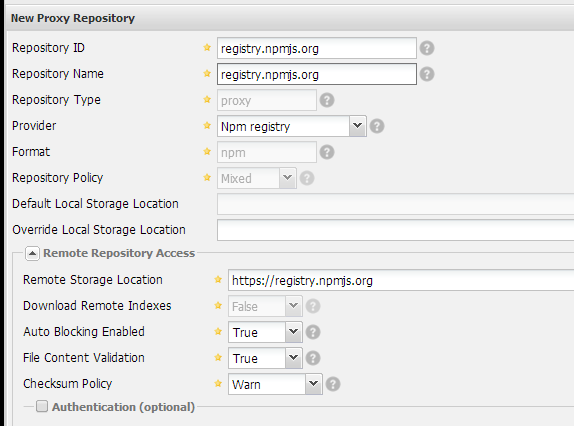
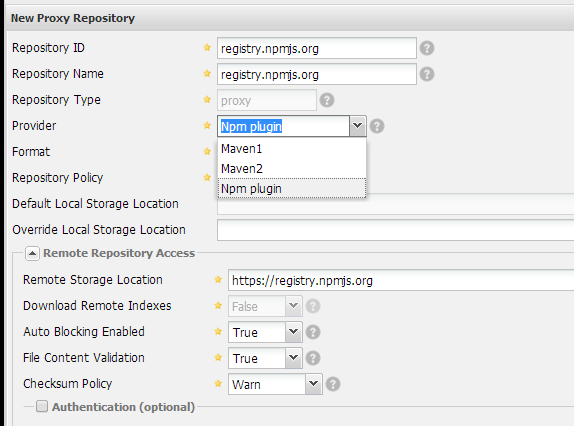
Added hosted repository (stub for now, there is no npm specific logic implemented yet)

Changed region(s): [[0.3554, 0.2746, 0.6516, 0.4883]]

diff --git a/src/main/java/com/bolyuba/nexus/plugin/npm/proxy/DefaultNpmProxyRepository.java b/src/main/java/com/bolyuba/nexus/plugin/npm/proxy/DefaultNpmProxyRepository.java
@@ -1,6 +1,7 @@
 package com.bolyuba.nexus.plugin.npm.proxy;
 
 import com.bolyuba.nexus.plugin.npm.NpmContentClass;
+import com.bolyuba.nexus.plugin.npm.NpmPlugin;
 import com.bolyuba.nexus.plugin.npm.proxy.content.NpmMimeRulesSource;
 import com.bolyuba.nexus.plugin.npm.proxy.storage.NpmLocalStorageWrapper;
 import com.bolyuba.nexus.plugin.npm.proxy.storage.NpmRemoteStorageWrapper;
@@ -10,15 +11,15 @@ import org.sonatype.nexus.configuration.Configurator;
 import org.sonatype.nexus.configuration.model.CRepository;
 import org.sonatype.nexus.configuration.model.CRepositoryExternalConfigurationHolderFactory;
 import org.sonatype.nexus.mime.MimeRulesSource;
-import org.sonatype.nexus.mime.MimeSupport;
-import org.sonatype.nexus.proxy.*;
-import org.sonatype.nexus.proxy.item.AbstractStorageItem;
-import org.sonatype.nexus.proxy.item.RepositoryItemUid;
+import org.sonatype.nexus.proxy.AccessDeniedException;
+import org.sonatype.nexus.proxy.IllegalOperationException;
+import org.sonatype.nexus.proxy.ItemNotFoundException;
+import org.sonatype.nexus.proxy.ResourceStoreRequest;
+import org.sonatype.nexus.proxy.StorageException;
 import org.sonatype.nexus.proxy.item.StorageItem;
 import org.sonatype.nexus.proxy.registry.ContentClass;
 import org.sonatype.nexus.proxy.repository.AbstractProxyRepository;
 import org.sonatype.nexus.proxy.repository.DefaultRepositoryKind;
-import org.sonatype.nexus.proxy.repository.Repository;
 import org.sonatype.nexus.proxy.repository.RepositoryKind;
 import org.sonatype.nexus.proxy.storage.local.LocalRepositoryStorage;
 import org.sonatype.nexus.proxy.storage.remote.RemoteRepositoryStorage;
@@ -26,20 +27,16 @@ import org.sonatype.nexus.proxy.storage.remote.RemoteRepositoryStorage;
 import javax.inject.Inject;
 import javax.inject.Named;
 
-import java.util.regex.Pattern;
-
 import static com.google.common.base.Preconditions.checkNotNull;
 
 /**
  * @author Georgy Bolyuba (georgy@bolyuba.com)
  */
-@Named(DefaultNpmProxyRepository.ROLE_HINT)
+@Named(NpmPlugin.ROLE_HINT)
 @Description("Npm registry proxy repo")
 public class DefaultNpmProxyRepository
         extends AbstractProxyRepository
         implements NpmProxyRepository {
-
-    public static final String ROLE_HINT = "npm";
 
     private final ContentClass contentClass;
 
@@ -54,24 +51,14 @@ public class DefaultNpmProxyRepository
     @Inject
     public DefaultNpmProxyRepository(final @Named(NpmContentClass.ID) ContentClass contentClass,
                                      final NpmProxyRepositoryConfigurator configurator,
-                                     final NpmMimeRulesSource mimeRulesSource, NpmUtility utility) {
+                                     final NpmMimeRulesSource mimeRulesSource,
+                                     NpmUtility utility) {
 
         this.contentClass = checkNotNull(contentClass);
         this.configurator = checkNotNull(configurator);
         this.mimeRulesSource = checkNotNull(mimeRulesSource);
         this.utility = checkNotNull(utility);
         this.repositoryKind = new DefaultRepositoryKind(NpmProxyRepository.class, null);
-    }
-
-    @Override
-    protected CRepositoryExternalConfigurationHolderFactory<NpmProxyRepositoryConfiguration> getExternalConfigurationHolderFactory() {
-        return new CRepositoryExternalConfigurationHolderFactory<NpmProxyRepositoryConfiguration>() {
-            @Override
-            public NpmProxyRepositoryConfiguration createExternalConfigurationHolder(final CRepository config) {
-                return new NpmProxyRepositoryConfiguration((Xpp3Dom) config.getExternalConfiguration());
-            }
-        };
-
     }
 
     @Override
@@ -87,6 +74,16 @@ public class DefaultNpmProxyRepository
     @Override
     public ContentClass getRepositoryContentClass() {
         return contentClass;
+    }
+
+    @Override
+    protected CRepositoryExternalConfigurationHolderFactory<NpmProxyRepositoryConfiguration> getExternalConfigurationHolderFactory() {
+        return new CRepositoryExternalConfigurationHolderFactory<NpmProxyRepositoryConfiguration>() {
+            @Override
+            public NpmProxyRepositoryConfiguration createExternalConfigurationHolder(final CRepository config) {
+                return new NpmProxyRepositoryConfiguration((Xpp3Dom) config.getExternalConfiguration());
+            }
+        };
     }
 
     @Override
@@ -106,6 +103,7 @@ public class DefaultNpmProxyRepository
         return mimeRulesSource;
     }
 
+    @SuppressWarnings("deprecation")
     @Override
     public StorageItem retrieveItem(ResourceStoreRequest request) throws IllegalOperationException, ItemNotFoundException, StorageException, AccessDeniedException {
         if (utility.shouldNotCache(request)) {

diff --git a/src/main/java/com/bolyuba/nexus/plugin/npm/templates/NpmHostedRepositoryTemplate.java b/src/main/java/com/bolyuba/nexus/plugin/npm/templates/NpmHostedRepositoryTemplate.java
@@ -2,9 +2,9 @@ package com.bolyuba.nexus.plugin.npm.templates;
 
 import com.bolyuba.nexus.plugin.npm.NpmContentClass;
 import com.bolyuba.nexus.plugin.npm.NpmPlugin;
-import com.bolyuba.nexus.plugin.npm.proxy.DefaultNpmProxyRepository;
-import com.bolyuba.nexus.plugin.npm.proxy.NpmProxyRepository;
-import com.bolyuba.nexus.plugin.npm.proxy.NpmProxyRepositoryConfiguration;
+import com.bolyuba.nexus.plugin.npm.hosted.DefaultNpmHostedRepository;
+import com.bolyuba.nexus.plugin.npm.hosted.NpmHostedRepository;
+import com.bolyuba.nexus.plugin.npm.hosted.NpmHostedRepositoryConfiguration;
 import org.codehaus.plexus.util.xml.Xpp3Dom;
 import org.sonatype.configuration.ConfigurationException;
 import org.sonatype.nexus.configuration.model.CRemoteStorage;
@@ -22,12 +22,12 @@ import java.io.IOException;
 /**
  * @author Georgy Bolyuba (georgy@bolyuba.com)
  */
-public class NpmProxyRepositoryTemplate
+public class NpmHostedRepositoryTemplate
         extends AbstractMavenRepositoryTemplate {
 
-    public NpmProxyRepositoryTemplate(final NpmRepositoryTemplateProvider provider, final String id,
-                                      final String description) {
-        super(provider, id, description, new NpmContentClass(), DefaultNpmProxyRepository.class, RepositoryPolicy.RELEASE);
+    public NpmHostedRepositoryTemplate(final NpmRepositoryTemplateProvider provider, final String id,
+                                       final String description) {
+        super(provider, id, description, new NpmContentClass(), DefaultNpmHostedRepository.class, RepositoryPolicy.RELEASE);
     }
 
     @Override
@@ -36,28 +36,34 @@ public class NpmProxyRepositoryTemplate
         repo.setId("test");
         repo.setName("test");
 
-        repo.setProviderRole(NpmProxyRepository.class.getName());
+        repo.setProviderRole(NpmHostedRepository.class.getName());
         repo.setProviderHint(NpmPlugin.ROLE_HINT);
 
         repo.setRemoteStorage(new CRemoteStorage());
         repo.getRemoteStorage().setProvider(getTemplateProvider().getRemoteProviderHintFactory().getDefaultHttpRoleHint());
         repo.getRemoteStorage().setUrl("http://some-remote-repository/repo-root/obr.xml");
-//        repo.getRemoteStorage().setUrl("https://registry.npmjs.org");
 
         final Xpp3Dom ex = new Xpp3Dom(DefaultCRepository.EXTERNAL_CONFIGURATION_NODE_NAME);
         repo.setExternalConfiguration(ex);
 
-        repo.externalConfigurationImple = new NpmProxyRepositoryConfiguration(ex);
+        final NpmHostedRepositoryConfiguration exConf = new NpmHostedRepositoryConfiguration(ex);
 
-        repo.setWritePolicy(RepositoryWritePolicy.READ_ONLY.name());
-        repo.setNotFoundCacheActive(true);
+        if (getRepositoryPolicy() != null) {
+          exConf.setRepositoryPolicy(getRepositoryPolicy());
+        }
+
+        repo.externalConfigurationImple = exConf;
+
+        repo.setWritePolicy(RepositoryWritePolicy.ALLOW_WRITE_ONCE.name());
         repo.setNotFoundCacheTTL(1440);
+        repo.setIndexable(true);
+        repo.setSearchable(true);
 
         return new CRepositoryCoreConfiguration(getTemplateProvider().getApplicationConfiguration(), repo,
-                new CRepositoryExternalConfigurationHolderFactory<NpmProxyRepositoryConfiguration>() {
+                new CRepositoryExternalConfigurationHolderFactory<NpmHostedRepositoryConfiguration>() {
                     @Override
-                    public NpmProxyRepositoryConfiguration createExternalConfigurationHolder(final CRepository config) {
-                        return new NpmProxyRepositoryConfiguration((Xpp3Dom) config.getExternalConfiguration());
+                    public NpmHostedRepositoryConfiguration createExternalConfigurationHolder(final CRepository config) {
+                        return new NpmHostedRepositoryConfiguration((Xpp3Dom) config.getExternalConfiguration());
                     }
                 });
     }

diff --git a/src/main/java/com/bolyuba/nexus/plugin/npm/hosted/DefaultNpmHostedRepository.java b/src/main/java/com/bolyuba/nexus/plugin/npm/hosted/DefaultNpmHostedRepository.java
@@ -1,0 +1,65 @@
+package com.bolyuba.nexus.plugin.npm.hosted;
+
+import com.bolyuba.nexus.plugin.npm.NpmContentClass;
+import com.bolyuba.nexus.plugin.npm.NpmPlugin;
+import org.codehaus.plexus.util.xml.Xpp3Dom;
+import org.sonatype.inject.Description;
+import org.sonatype.nexus.configuration.Configurator;
+import org.sonatype.nexus.configuration.model.CRepository;
+import org.sonatype.nexus.configuration.model.CRepositoryExternalConfigurationHolderFactory;
+import org.sonatype.nexus.proxy.registry.ContentClass;
+import org.sonatype.nexus.proxy.repository.AbstractProxyRepository;
+import org.sonatype.nexus.proxy.repository.DefaultRepositoryKind;
+import org.sonatype.nexus.proxy.repository.RepositoryKind;
+
+import javax.inject.Inject;
+import javax.inject.Named;
+
+/**
+ * @author Georgy Bolyuba (georgy@bolyuba.com)
+ */
+@Named(NpmPlugin.ROLE_HINT)
+@Description("Npm registry hosted repo")
+public class DefaultNpmHostedRepository
+        extends AbstractProxyRepository
+                implements NpmHostedRepository {
+
+    private final ContentClass contentClass;
+
+    private final NpmHostedRepositoryConfigurator configurator;
+
+    private final RepositoryKind repositoryKind;
+
+    @Inject
+    public DefaultNpmHostedRepository(final @Named(NpmContentClass.ID) ContentClass contentClass,
+                                      NpmHostedRepositoryConfigurator configurator) {
+        this.contentClass = contentClass;
+        this.configurator = configurator;
+        this.repositoryKind = new DefaultRepositoryKind(NpmHostedRepository.class, null);
+    }
+
+    @Override
+    protected Configurator getConfigurator() {
+        return this.configurator;
+    }
+
+    @Override
+    public RepositoryKind getRepositoryKind() {
+        return this.repositoryKind;
+    }
+
+    @Override
+    public ContentClass getRepositoryContentClass() {
+        return this.contentClass;
+    }
+
+    @Override
+    protected CRepositoryExternalConfigurationHolderFactory<?> getExternalConfigurationHolderFactory() {
+        return new CRepositoryExternalConfigurationHolderFactory<NpmHostedRepositoryConfiguration>() {
+            @Override
+            public NpmHostedRepositoryConfiguration createExternalConfigurationHolder(final CRepository config) {
+                return new NpmHostedRepositoryConfiguration((Xpp3Dom) config.getExternalConfiguration());
+            }
+        };
+    }
+}

diff --git a/src/main/java/com/bolyuba/nexus/plugin/npm/templates/NpmRepositoryTemplateProvider.java b/src/main/java/com/bolyuba/nexus/plugin/npm/templates/NpmRepositoryTemplateProvider.java
@@ -17,11 +17,16 @@ public class NpmRepositoryTemplateProvider extends AbstractRepositoryTemplatePro
 
     private static final String NPM_PROXY = "npm_proxy";
 
+    private static final String NPM_HOSTED = "npm_hosted";
+
+    public static final String NPM_PROVIDER = "Npm plugin";
+
     @Override
     public TemplateSet getTemplates() {
         final TemplateSet templates = new TemplateSet(null);
 
-        templates.add(new NpmProxyRepositoryTemplate(this, NPM_PROXY, "Npm registry"));
+        templates.add(new NpmProxyRepositoryTemplate(this, NPM_PROXY, NPM_PROVIDER));
+        templates.add(new NpmHostedRepositoryTemplate(this, NPM_HOSTED, NPM_PROVIDER));
 
         return templates;
     }

diff --git a/src/main/java/com/bolyuba/nexus/plugin/npm/hosted/NpmHostedRepositoryConfiguration.java b/src/main/java/com/bolyuba/nexus/plugin/npm/hosted/NpmHostedRepositoryConfiguration.java
@@ -1,0 +1,15 @@
+package com.bolyuba.nexus.plugin.npm.hosted;
+
+import org.codehaus.plexus.util.xml.Xpp3Dom;
+import org.sonatype.nexus.proxy.maven.AbstractMavenRepositoryConfiguration;
+
+/**
+ * @author Georgy Bolyuba (georgy@bolyuba.com)
+ */
+public class NpmHostedRepositoryConfiguration
+        extends AbstractMavenRepositoryConfiguration {
+
+    public NpmHostedRepositoryConfiguration(Xpp3Dom configuration) {
+        super(configuration);
+    }
+}

diff --git a/src/main/java/com/bolyuba/nexus/plugin/npm/hosted/NpmHostedRepository.java b/src/main/java/com/bolyuba/nexus/plugin/npm/hosted/NpmHostedRepository.java
@@ -1,0 +1,13 @@
+package com.bolyuba.nexus.plugin.npm.hosted;
+
+import org.sonatype.nexus.plugins.RepositoryType;
+import org.sonatype.nexus.proxy.repository.HostedRepository;
+
+/**
+ * @author Georgy Bolyuba (georgy@bolyuba.com)
+ */
+@SuppressWarnings("deprecation")
+@RepositoryType(pathPrefix = "npm")
+public interface NpmHostedRepository
+        extends HostedRepository {
+}

diff --git a/src/main/java/com/bolyuba/nexus/plugin/npm/hosted/NpmHostedRepositoryConfigurator.java b/src/main/java/com/bolyuba/nexus/plugin/npm/hosted/NpmHostedRepositoryConfigurator.java
@@ -1,0 +1,15 @@
+package com.bolyuba.nexus.plugin.npm.hosted;
+
+import org.sonatype.nexus.proxy.repository.AbstractRepositoryConfigurator;
+
+import javax.inject.Named;
+import javax.inject.Singleton;
+
+/**
+ * @author Georgy Bolyuba (georgy@bolyuba.com)
+ */
+@Named
+@Singleton
+public class NpmHostedRepositoryConfigurator
+        extends AbstractRepositoryConfigurator {
+}
